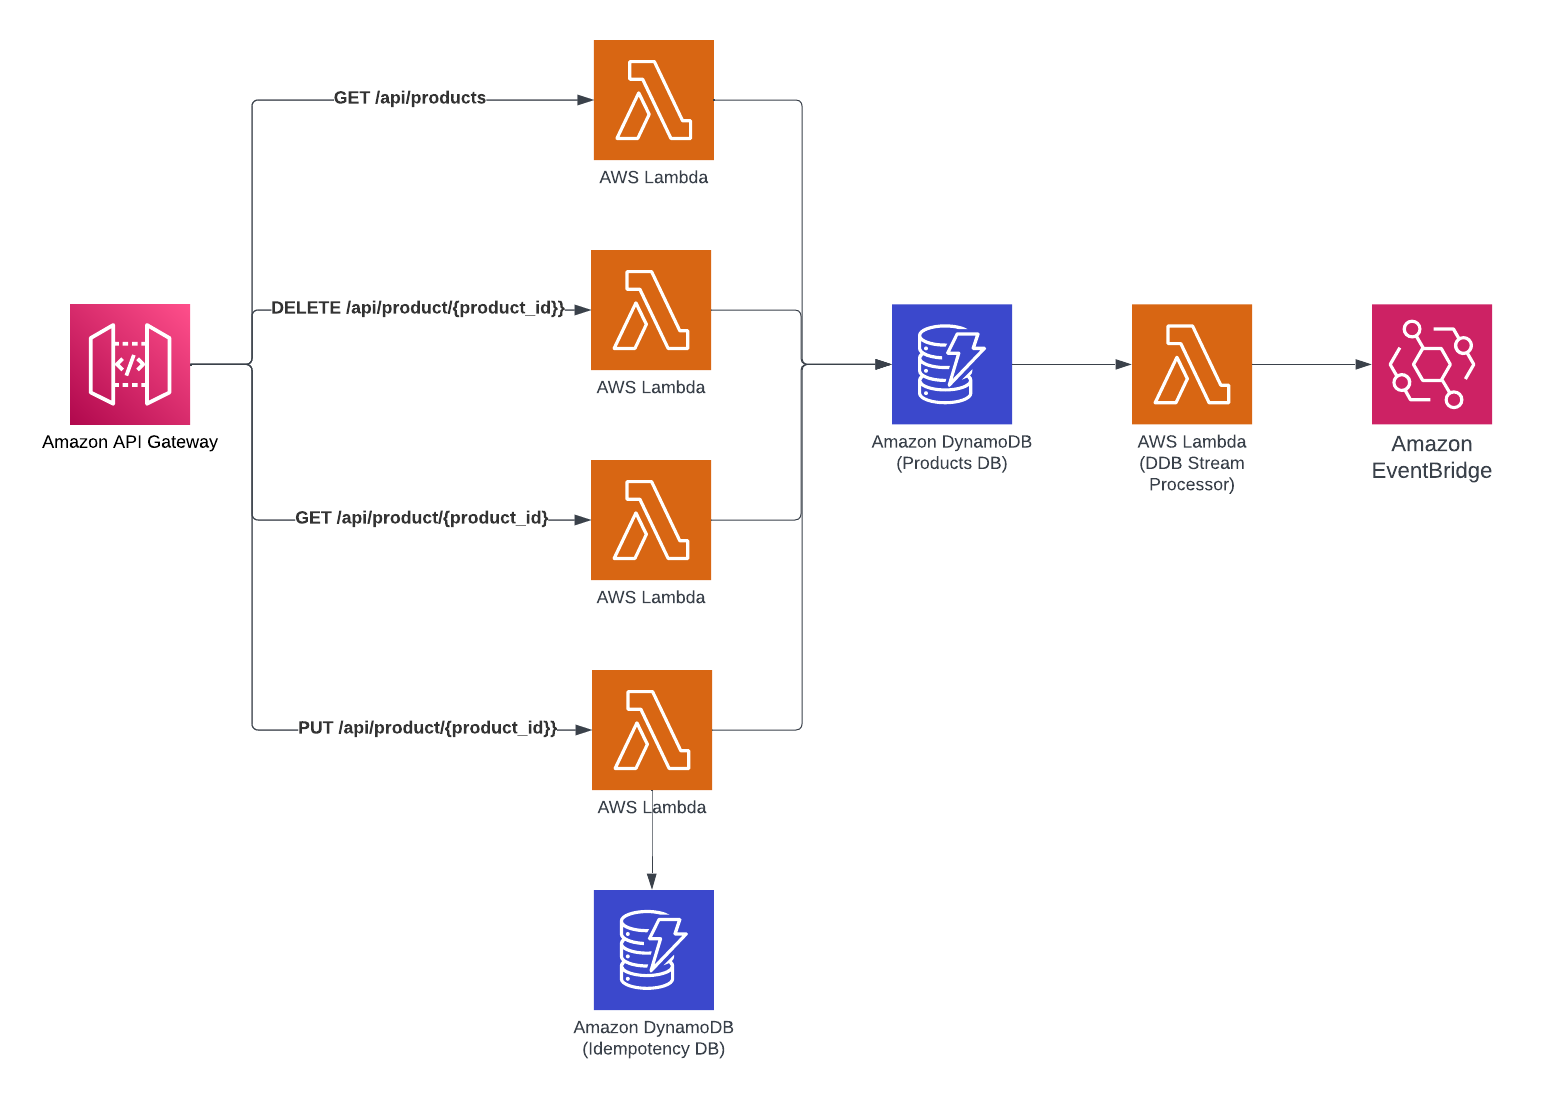
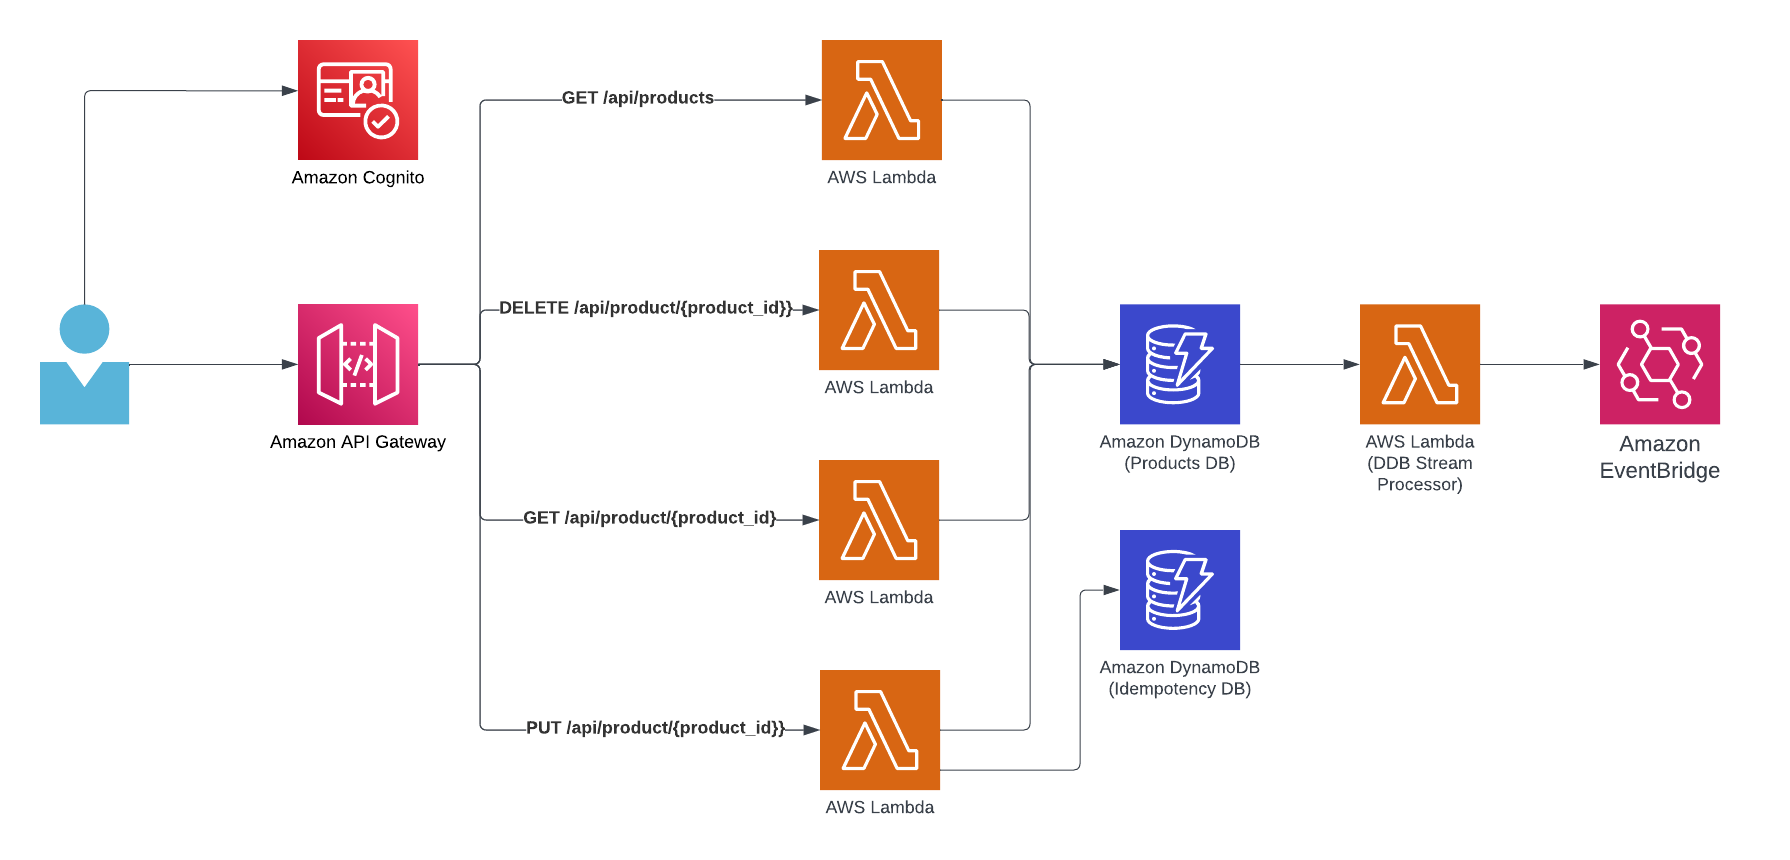
docs: add cognito docs

diff --git a/docs/index.md b/docs/index.md
@@ -27,7 +27,6 @@ The template project provides a working, deployable, open source-based, serverle
 
 You can start your own service in three clicks.
 
-
 ### The Products service
 
 <img alt="alt_text" src="images/design.png" alt="Architecture diagram />
@@ -43,19 +42,17 @@ You can start your own service in three clicks.
 - The AWS Lambda handler embodies Serverless best practices and has all the bells and whistles for a proper production ready handler.
 - AWS Lambda handler uses [AWS Lambda Powertools](https://docs.powertools.aws.dev/lambda-python/): logger, tracer, metrics, event handler, validation, batch
 - AWS Lambda handler three layer architecture: handler layer, logic layer and data access layer (integration)
+- Cognito user pool with a test user. All E2E tests automatically login with the test user and use a JWT id token
 - Idempotent API
+- Authentication protected API
 - CloudWatch dashboards - High level and low level including CloudWatch alarms
 - Unit, infrastructure, security, integration and end to end tests.
-
 
 While the code examples are written in Python, the principles are valid to any supported AWS Lambda handler programming language.
 
 #### **Monitoring Design**
 
 <img alt="alt_text" src="images/monitoring.png" alt="monitoring diagram />
-
-
-
 
 #### **Async Testing Design**
 

diff --git a/README.md b/README.md
@@ -51,7 +51,9 @@ You can start your own service in three clicks.
 - The AWS Lambda handler embodies Serverless best practices and has all the bells and whistles for a proper production ready handler.
 - AWS Lambda handler uses [AWS Lambda Powertools](https://docs.powertools.aws.dev/lambda-python/): logger, tracer, metrics, event handler, validation, batch
 - AWS Lambda handler three layer architecture: handler layer, logic layer and data access layer (integration)
+- Cognito user pool with a test user. All E2E tests automatically login with the test user and use a JWT id token
 - Idempotent API
+- Authentication protected API
 - CloudWatch dashboards - High level and low level including CloudWatch alarms
 - Unit, infrastructure, security, integration and end to end tests.
 

diff --git a/docs/decision_log.md b/docs/decision_log.md
@@ -2,6 +2,12 @@
 
 This file is meant to capture project-level decisions that were made in this project and why. There are often no obvious correct answers, and we must decide with multiple options.
 
+## 2023-10-30
+
+Added Amazon Cognito user pool. While it is not connected as external identity provider, or provides registration, it is a good start for any service.
+We build a test user in the CDK, and set its password, upload it to secrets manager and use it in the E2E tests to trigger the protected API.
+Its a good start to have a protected API during development prior to productization.
+
 ## 2023-10-17
 
 Added serverless monitoring with CloudWatch dashboards: logs, metrics, custom metrics and alarms.

diff --git a/docs/monitoring.md b/docs/monitoring.md
@@ -39,9 +39,7 @@ KPI metrics are included in the bottom part as well.
 
 Personas that use this dashboard: SRE, developers, and product teams (KPIs)
 
-
 ![hl](../images/monitoring/high_level.png)
-
 
 ### **Low Level Dashboard**
 
